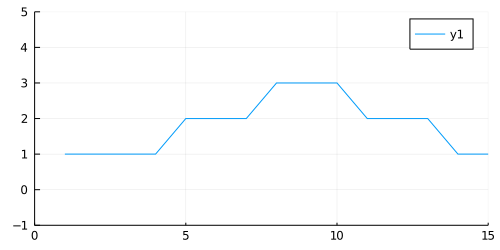
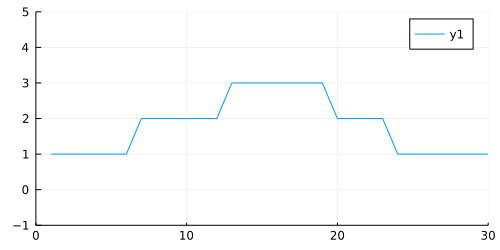
update markdown, increase sample size

diff --git a/markdown/04-hidden-markov-model/04_hidden-markov-model.md b/markdown/04-hidden-markov-model/04_hidden-markov-model.md
@@ -11,20 +11,16 @@ Let's load the libraries we'll need. We also set a random seed (for reproducibil
 
 ```julia
 # Load libraries.
-using Turing, Plots, Random
+using Turing, Plots, Random, StatsPlots
 
 # Turn off progress monitor.
 Turing.setprogress!(false);
 
 # Set a random seed and use the forward_diff AD mode.
-Random.seed!(1234);
+Random.seed!(12345678);
 ```
 
 
-
-
-    ┌ Info: [Turing]: progress logging is disabled globally
-    └ @ Turing /home/cameron/.julia/packages/Turing/cReBm/src/Turing.jl:22
 
 
 ## Simple State Detection
@@ -34,11 +30,11 @@ In this example, we'll use something where the states and emission parameters ar
 
 ```julia
 # Define the emission parameter.
-y = [ 1.0, 1.0, 1.0, 1.0, 2.0, 2.0, 2.0, 3.0, 3.0, 3.0, 2.0, 2.0, 2.0, 1.0, 1.0 ];
+y = [ 1.0, 1.0, 1.0, 1.0, 1.0, 1.0, 2.0, 2.0, 2.0, 2.0, 2.0, 2.0, 3.0, 3.0, 3.0, 3.0, 3.0, 3.0, 3.0, 2.0, 2.0, 2.0, 2.0, 1.0, 1.0, 1.0, 1.0, 1.0, 1.0, 1.0];
 N = length(y);  K = 3;
 
 # Plot the data we just made.
-plot(y, xlim = (0,15), ylim = (-1,5), size = (500, 250))
+plot(y, xlim = (0,30), ylim = (-1,5), size = (500, 250))
 ```
 
 ![](figures/04_hidden-markov-model_2_1.png)
@@ -111,14 +107,9 @@ Time to run our sampler.
 
 
 ```julia
-g = Gibbs(HMC(0.001, 7, :m, :T), PG(20, :s))
-c = sample(BayesHmm(y, 3), g, 100);
+g = Gibbs(HMC(0.01, 50, :m, :T), PG(120, :s))
+chn = sample(BayesHmm(y, 3), g, 1000);
 ```
-
-```
-Error: type Task has no field state
-```
-
 
 
 
@@ -129,38 +120,32 @@ The code below generates an animation showing the graph of the data above, and t
 
 
 ```julia
-# Import StatsPlots for animating purposes.
-using StatsPlots
 
 # Extract our m and s parameters from the chain.
-m_set = MCMCChains.group(c, :m).value
-s_set = MCMCChains.group(c, :s).value
+m_set = MCMCChains.group(chn, :m).value
+s_set = MCMCChains.group(chn, :s).value
 
 # Iterate through the MCMC samples.
-Ns = 1:length(c)
+Ns = 1:length(chn)
 
 # Make an animation.
 animation = @gif for i in Ns
-    m = m_set[i, :]; 
+    m = m_set[i, :];
     s = Int.(s_set[i,:]);
     emissions = m[s]
-    
-    p = plot(y, c = :red,
+
+    p = plot(y, chn = :red,
         size = (500, 250),
         xlabel = "Time",
         ylabel = "State",
         legend = :topright, label = "True data",
-        xlim = (0,15),
+        xlim = (0,30),
         ylim = (-1,5));
-    plot!(emissions, color = :blue, label = "Sample $N")
-end every 10
+    plot!(emissions, color = :blue, label = "Sample $i")
+end every 3
 ```
 
-```
-Error: UndefVarError: c not defined
-```
-
-
+![](figures/04_hidden-markov-model_5_1.gif)
 
 
 
@@ -169,42 +154,60 @@ Looks like our model did a pretty good job, but we should also check to make sur
 
 ```julia
 # Index the chain with the persistence probabilities.
-subchain = MCMCChains.group(c, :T)
+subchain = chn[["T[1][1]", "T[2][2]", "T[3][3]"]]
 
-# TODO: This doesn't work anymore. Note sure what it was originally doing
-# Plot the chain.
-plot(
-    subchain, 
-    colordim = :parameter, 
-    seriestype=:traceplot,
-    title = "Persistence Probability",
-    legend=:right
-)
+plot(subchain,
+     seriestype = :traceplot,
+     title = "Persistence Probability",
+     legend=false)
 ```
 
-```
-Error: UndefVarError: c not defined
-```
+![](figures/04_hidden-markov-model_6_1.png)
 
 
 
-
-
-A cursory examination of the traceplot above indicates that at least `T[3,3]` and possibly `T[2,2]` have converged to something resembling stationary. `T[1,1]`, on the other hand, has a slight "wobble", and seems less consistent than the others. We can use the diagnostic functions provided by [MCMCChain](https://github.com/TuringLang/MCMCChain.jl) to engage in some formal tests, like the Heidelberg and Welch diagnostic:
+A cursory examination of the traceplot above indicates that all three chains converged to something resembling
+stationary. We can use the diagnostic functions provided by [MCMCChain](https://github.com/TuringLang/MCMCChain.jl) to engage in some more formal tests, like the Heidelberg and Welch diagnostic:
 
 ```julia
-heideldiag(MCMCChains.group(c, :T))
+
+heideldiag(MCMCChains.group(chn, :T))[1]
 ```
 
 ```
-Error: UndefVarError: c not defined
+Heidelberger and Welch Diagnostic - Chain 1
+  parameters     burnin   stationarity    pvalue      mean   halfwidth     
+ te ⋯
+      Symbol    Float64        Float64   Float64   Float64     Float64   Fl
+oat ⋯
+
+     T[1][1]     0.0000         1.0000    0.7998    0.8593      0.0167    1
+.00 ⋯
+     T[1][2]   100.0000         1.0000    0.7311    0.0125      0.0069    0
+.00 ⋯
+     T[1][3]     0.0000         1.0000    0.2335    0.1194      0.0184    0
+.00 ⋯
+     T[2][1]     0.0000         1.0000    0.3088    0.0603      0.0380    0
+.00 ⋯
+     T[2][2]     0.0000         1.0000    0.5256    0.8079      0.0392    1
+.00 ⋯
+     T[2][3]     0.0000         1.0000    0.6664    0.1318      0.0658    0
+.00 ⋯
+     T[3][1]   200.0000         1.0000    0.3471    0.1037      0.0247    0
+.00 ⋯
+     T[3][2]     0.0000         1.0000    0.0671    0.1439      0.0274    0
+.00 ⋯
+     T[3][3]   100.0000         1.0000    0.3721    0.7553      0.0259    1
+.00 ⋯
+                                                                1 column om
+itted
 ```
 
 
 
 
 
-The p-values on the test suggest that we cannot reject the hypothesis that the observed sequence comes from a stationary distribution, so we can be somewhat more confident that our transition matrix has converged to something reasonable.
+The p-values on the test suggest that we cannot reject the hypothesis that the observed sequence comes from a stationary distribution, so we can be reasonably confident that our transition matrix has converged to something reasonable.
 
 
 ## Appendix
@@ -218,27 +221,24 @@ TuringTutorials.weave_file("04-hidden-markov-model", "04_hidden-markov-model.jmd
 
 Computer Information:
 ```
-Julia Version 1.6.0
-Commit f9720dc2eb (2021-03-24 12:55 UTC)
+Julia Version 1.5.4
+Commit 69fcb5745b (2021-03-11 19:13 UTC)
 Platform Info:
   OS: Linux (x86_64-pc-linux-gnu)
-  CPU: Intel(R) Core(TM) i9-9900K CPU @ 3.60GHz
+  CPU: Intel(R) Core(TM) i7-8550U CPU @ 1.80GHz
   WORD_SIZE: 64
   LIBM: libopenlibm
-  LLVM: libLLVM-11.0.1 (ORCJIT, skylake)
-Environment:
-  JULIA_CMDSTAN_HOME = /home/cameron/stan/
-  JULIA_NUM_THREADS = 16
+  LLVM: libLLVM-9.0.1 (ORCJIT, skylake)
 
 ```
 
 Package Information:
 
 ```
-      Status `~/.julia/dev/TuringTutorials/tutorials/04-hidden-markov-model/Project.toml`
-  [91a5bcdd] Plots v1.11.1
+Status `~/.julia/packages/TuringTutorials/lF0z7/tutorials/04-hidden-markov-model/Project.toml`
+  [91a5bcdd] Plots v1.11.2
   [f3b207a7] StatsPlots v0.14.19
-  [fce5fe82] Turing v0.15.1
+  [fce5fe82] Turing v0.15.13
   [9a3f8284] Random
 
 ```
